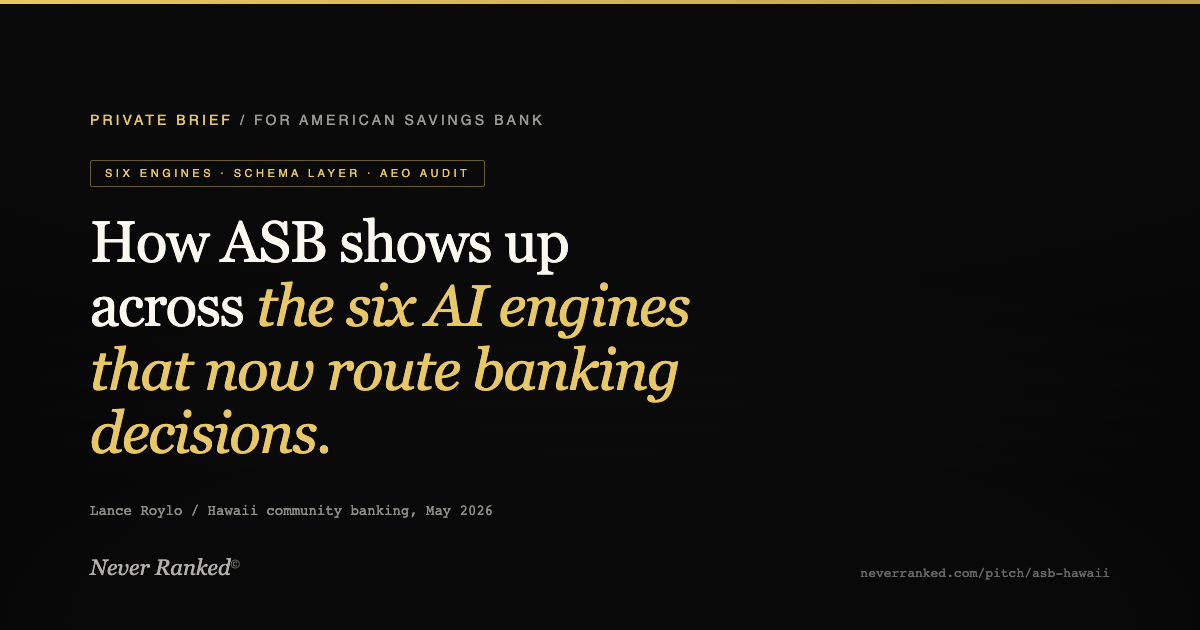
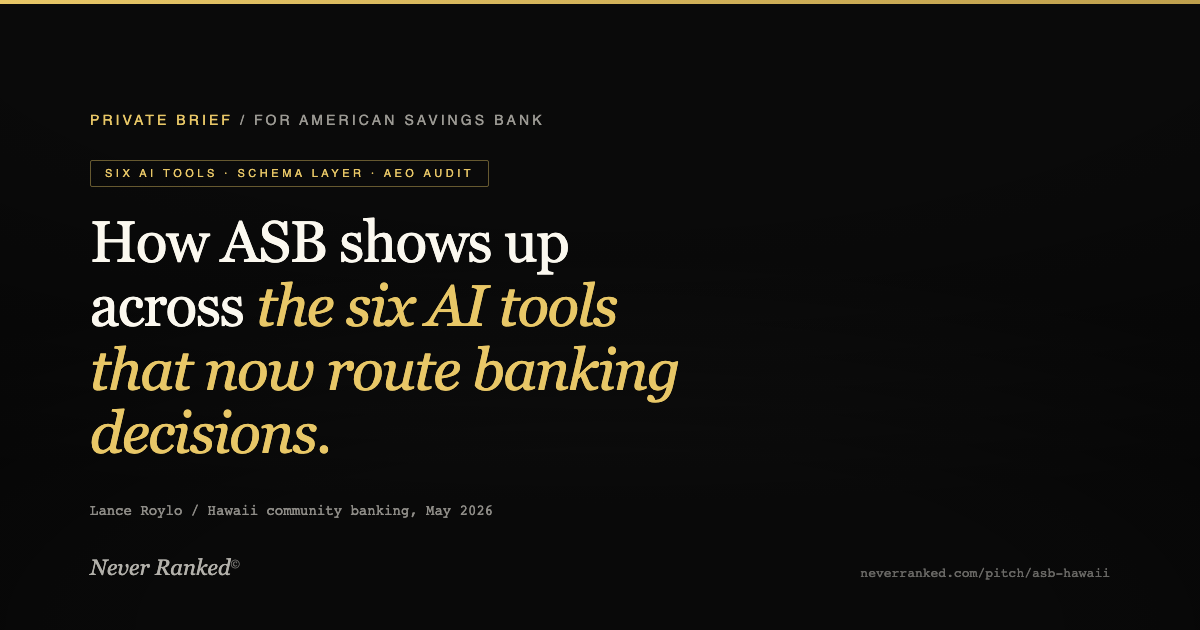
Copilot sweep repair, tiers 1-2: live deliverable promise and sent pitches
Tier 1, hawaii-wealth-aeo: the page promised "we report which firms Copilot
cites today" -- a deliverable we cannot produce for anyone who signs it. Also
asserted Copilot behaviour "in our data" twice, and listed five items under
"four citation-grade engines". Bing organic is now stated as a control with
the boundary named: whether ranking in it changes any AI answer is not
something this measurement tested.

Tier 2, Hamada (sent 2026-05-05): Path 3 sold Bing-ranking investment while
disclaiming twice that it may change nothing, and carried the last surviving
first-mover clothing ("ahead of any other Hawaii wealth manager"). Cut, and
"Three concrete paths" renumbered to two. Count-six-list-seven fixed, table
header "AI tool" -> "Surface", x/7 column relabelled to surfaces, and the
control row ruled off with a real style rather than an inert class.

Tier 2, ASB (sent 2026-04-29): "Citation-grade engines (5)" never became (4)
and still carried the "via Bing" dangler left by the Copilot deletion. Split
into four engines plus a named control channel. The seventh surface is now
introduced before "all seven" is used. "One-fifteenth the depth" is not
reconstructable (18x3 against 5x1 is ~1/11, and engines cancel), so it is now
"a fraction".

OG cards: both were stale since 2026-05-10 and still read "Seven Engines",
which is what link previews actually showed. Re-rendered. The ASB card
overflowed its canvas -- the content sweep appended a long Gemma clause and
[…]

Changed region(s): [[0.4008, 0.4524, 0.5858, 0.5429], [0.1233, 0.2714, 0.4008, 0.3016]]

diff --git a/pitch/hamada-financial-group/index.html b/pitch/hamada-financial-group/index.html
@@ -43,6 +43,9 @@
   li { margin-bottom: 8px; }
   strong { color: #e8e8ea; font-weight: 600; }
   table { width: 100%; border-collapse: collapse; margin: 22px 0; font-size: 14px; color: #b9b9bd; }
+  /* Bing organic is a classic-search control, not an AI tool. Ruled off so the
+     table cannot be read as seven AI tools. */
+  .control-row td { border-top: 2px solid #3a3a40; color: #8f8f96; font-style: italic; }
   th { color: #d4c596; text-align: left; font-weight: 400; letter-spacing: 0.04em; text-transform: uppercase; font-size: 11px; padding: 12px 14px 12px 0; border-bottom: 1px solid #4a4740; vertical-align: top; }
   td { padding: 10px 14px 10px 0; border-bottom: 1px solid #211e18; vertical-align: top; font-variant-numeric: tabular-nums; }
   td.num { text-align: right; padding-right: 24px; }
@@ -89,7 +92,7 @@
     </div>
 
     <h2>1. The headline finding</h2>
-    <p>We asked all 6 AI tools the kinds of questions a Hawaii wealth-management buyer would actually ask. Things like "best wealth manager in Hawaii," "fiduciary financial advisor Honolulu," "Hawaii wealth manager for business owner," and 15 similar. We ran each question across ChatGPT, Perplexity, Gemini, Bing search (control), Google AI Overviews, Claude, and Gemma.</p>
+    <p>We asked all 6 AI tools the kinds of questions a Hawaii wealth-management buyer would actually ask. Things like "best wealth manager in Hawaii," "fiduciary financial advisor Honolulu," "Hawaii wealth manager for business owner," and 15 similar. We ran each question across ChatGPT, Perplexity, Gemini, Google AI Overviews, Claude, and Gemma, plus Bing organic search as a control.</p>
     <p>Across that full 18-question set, Hamada Financial Group appears in <strong>8 mentions</strong>.</p>
     <p><strong>7 of those 8 mentions</strong> came from a single question: <em>"Hamada Financial vs Cadinha vs CKW."</em> That was the only question in the set that named Hamada by name.</p>
     <p><strong>On the other 17 questions,</strong> the ones where a buyer is searching for a Hawaii wealth manager without knowing your name yet, Hamada was not mentioned by any AI tool.</p>
@@ -98,13 +101,13 @@
     <h2>2. How each AI tool treated Hamada</h2>
     <p>The same 18 questions, broken out by which AI tool mentioned Hamada at all:</p>
     <table>
-      <thead><tr><th>AI tool</th><th class="num">Mentions</th><th>Notes</th></tr></thead>
+      <thead><tr><th>Surface</th><th class="num">Mentions</th><th>Notes</th></tr></thead>
       <tbody>
         <tr><td>Perplexity</td><td class="num">3</td><td>Only the named-comparison question</td></tr>
         <tr><td>Google AI Overviews</td><td class="num">3</td><td>Only the named-comparison question</td></tr>
         <tr><td>Gemini grounded</td><td class="num">2</td><td>Only the named-comparison question</td></tr>
         <tr><td>ChatGPT search</td><td class="num">0</td><td>Not mentioned on any question</td></tr>
-        <tr><td>Bing search (control)</td><td class="num">0</td><td>Not mentioned. This is true for every Hawaii wealth firm in our data (see Section 4).</td></tr>
+        <tr class="control-row"><td>Bing organic (control)</td><td class="num">0</td><td>Not returned in the top 5. This is true for every Hawaii wealth firm in our data (see Section 4).</td></tr>
         <tr><td>Claude</td><td class="num">0</td><td>Not in its training data</td></tr>
         <tr><td>Gemma</td><td class="num">0</td><td>Not in its training data</td></tr>
       </tbody>
@@ -118,7 +121,7 @@
           <th>Firm</th>
           <th class="num">Mentions</th>
           <th>Where in the answer</th>
-          <th class="num">AI tools</th>
+          <th class="num">Surfaces (of 7)</th>
         </tr>
       </thead>
       <tbody>
@@ -173,7 +176,7 @@
     <p>The pattern: when AI mentions Hamada at all, it is neutral, descriptive, and shows up early in the answer. Hamada&rsquo;s AI footprint is small but accurately described where it exists. The work to do is about volume, not fixing the way you are described.</p>
 
     <h2>6. What &ldquo;better&rdquo; looks like, observably</h2>
-    <p>NeverRanked does not promise that AI will start mentioning you more. We measure. But the data above tells you what the firms AI cites consistently are doing differently, and what would have to change for Hamada to share those conditions. Three concrete paths.</p>
+    <p>NeverRanked does not promise that AI will start mentioning you more. We measure. But the data above tells you what the firms AI cites consistently are doing differently, and what would have to change for Hamada to share those conditions. Two concrete paths.</p>
 
     <h3>Path 1. Show up on the open-ended questions</h3>
     <p><strong>Today:</strong> Hamada is mentioned on 0 of the 17 open-ended questions. <strong>What &ldquo;better&rdquo; looks like:</strong> Hamada is mentioned on 5 to 10 of those 17 within the next 60 to 90 days of consistent editorial work.</p>
@@ -195,17 +198,6 @@
       <li>Sustained named-founder content (op-eds, contributed articles, conference talks transcribed to web). The AI training-data layer compounds slowly. This is a 6 to 12 month signal, not a 30-day one.</li>
     </ul>
     <p><strong>What the engagement measures:</strong> Claude and Gemma mention count for Hamada quarter-over-quarter. This is the slowest signal but the most defensible once it forms.</p>
-
-    <h3>Path 3. Show up in Bing search (control) (the gap everyone has)</h3>
-    <p><strong>Today:</strong> Bing search (control) mentions zero Hawaii wealth-management firms in the data. Every firm in this category is invisible there. What the measurement shows: whichever firm shows up first in Bing search results for these questions would be the one classic search surfaces. Whether that changes what any AI answer engine cites is not something this measurement tested.</p>
-    <p><strong>What &ldquo;better&rdquo; looks like:</strong> Hamada appears in Bing search (control) for 3 to 5 of the 17 open-ended questions within 90 days, ahead of any other Hawaii wealth manager.</p>
-    <p><strong>What that requires:</strong></p>
-    <ul>
-      <li>Bing organic search visibility for the named questions. The current Bing top 5 for these questions is dominated by national publications (SmartAsset, Investopedia, Forbes), not Hawaii-specific firm content.</li>
-      <li>Hamada-authored or Hamada-cited content on those national publications, indexed by Bing, ranked in the top 5 for at least the most common questions.</li>
-      <li>What the measurement shows: this gap is open for every Hawaii wealth manager. Whether closing it changes what any AI answer engine cites is not something this measurement tested.</li>
-    </ul>
-    <p><strong>What the engagement measures:</strong> Hamada appearances on Bing search (control) per measurement window, broken out by question. We also catch the moment Bing starts ranking a Hamada-relevant URL in the top 5.</p>
 
     <div class="callout">
       <h3>The honest framing</h3>

diff --git a/hawaii-wealth-aeo/index.html b/hawaii-wealth-aeo/index.html
@@ -147,9 +147,9 @@
 </script>
     <p>For wealth, the read is closer to half-and-half. About half the AI-citation surface for your category is on your own site (clean it up, the leverage is real). The other half is off-site (lead-gen platforms, named-founder bylines, published rankings, Wikipedia presence for principals). The full <a href="/teardowns/wealth-mgmt-hawaii/">Hawaii wealth-management teardown</a> covers the 42-firm cohort, the lead-gen middleman pattern, and Claude&rsquo;s structurally thin training-data presence for the category.</p>
 
-    <h2>The Bing search (control) gap, specific to wealth</h2>
-    <p>Bing search (control) cites zero Hawaii wealth-firm websites across 787 mentions in our data. The gap is cohort-wide. In our data, Copilot answers track Bing organic results, so the firms ranking in Bing organic for the buyer questions are the ones Copilot currently cites, and absent firms are absent.</p>
-    <p>The observed condition is Bing organic visibility for the named queries. The current Bing top 5 for these questions is dominated by national publications (SmartAsset, Investopedia, Forbes) and lead-gen platforms, not Hawaii-specific firm content. We report which firms Copilot cites today and where Bing organic visibility sits for the named queries, run over run.</p>
+    <h2>The Bing organic gap, specific to wealth</h2>
+    <p>Bing organic returns zero Hawaii wealth-firm websites across 787 results in our data. The gap is cohort-wide. Bing organic is measured as a classic-search control, not as an AI answer engine; whether ranking in it changes any AI answer is not something this measurement tested.</p>
+    <p>The observed condition is Bing organic visibility for the named queries. The current Bing top 5 for these questions is dominated by national publications (SmartAsset, Investopedia, Forbes) and lead-gen platforms, not Hawaii-specific firm content. We report where Bing organic visibility sits for the named queries, run over run.</p>
 
     <h2>The Claude training-data finding (worth flagging)</h2>
     <p>Claude answers from its training data rather than searching the live web. Across 646 Claude mentions in our wealth measurement, only 14% went to firm-owned websites. The other 86% pulled from third-party content even though Claude could have named the firms. For comparison: Claude cites Hawaii law firms 51% firm-owned and Honolulu dental practices 34%. Hawaii wealth firms have a structurally thinner Claude training-data presence than the other relationship-business cohort we measured.</p>
@@ -159,11 +159,11 @@
     <p>The standard engagement shape, scoped to a wealth firm:</p>
     <ul>
       <li><strong>Scoping call (30 min).</strong> Lock the 18 buyer questions a real Hawaii wealth-management buyer would ask AI (an example set is published at <a href="/methodology/#query-set">/methodology/#query-set</a>). Lock the cohort. Confirm the questions reflect your specific buyer (high-net-worth, business owner, physician, retiree, inherited wealth, etc.).</li>
-      <li><strong>The baseline month.</strong> Daily measurement across the six AI tools: four citation-grade engines that search the live web (Perplexity, ChatGPT search, Gemini grounded, Bing search (control), Google AI Overviews) and two model-knowledge engines that answer from training data (Claude, Gemma).</li>
+      <li><strong>The baseline month.</strong> Daily measurement across the six AI tools: four citation-grade engines that search the live web (Perplexity, ChatGPT search, Gemini grounded, Google AI Overviews) and two model-knowledge engines that answer from training data (Claude, Gemma), alongside Bing organic as a classic-search control.</li>
       <li><strong>Research memo + clear list of fixes.</strong> Named competitors, observed gaps per question, prioritized punch list scoped to two parallel workstreams (on-site cleanup + off-site authority work).</li>
       <li><strong>Monthly delta memo after the baseline month.</strong> What moved, what did not, drift alerts when a competitor moves on your category.</li>
     </ul>
-    <p>For wealth firms specifically, the punch list typically covers: (1) SmartAsset and getwarmer.com profile presence, (2) the Bing organic visibility that Copilot citations track in our data, (3) Claude training-data signals, (4) the named-comparison query positioning when your top 2-3 competitors are mentioned by name. We name the specific gaps in the paid engagement. The free check does not.</p>
+    <p>For wealth firms specifically, the punch list typically covers: (1) SmartAsset and getwarmer.com profile presence, (2) Bing organic visibility, tracked as a classic-search control, (3) Claude training-data signals, (4) the named-comparison query positioning when your top 2-3 competitors are mentioned by name. We name the specific gaps in the paid engagement. The free check does not.</p>
 
     <div class="cta-block">
       <h3>See how 6 AI tools read your firm&rsquo;s site right now</h3>

diff --git a/first-look/prince-waikiki/index.html b/first-look/prince-waikiki/index.html
@@ -7,7 +7,7 @@
   from an INFORMAL probe: 5 traveler hotel-discovery questions across 4 AI
   tools (Perplexity, ChatGPT search, Gemini grounded, Claude), single run,
   plus a deterministic AEO site scan of princewaikiki.com. NOT the formal
-  18Q / 7-tool / 3-run protocol; the page says so. 1:1 deliverable, not public.
+  18Q / 6-tool / 3-run protocol; the page says so. 1:1 deliverable, not public.
   Competitors named (allowed in a 1:1; observational only).
 -->
 <html lang="en">
@@ -84,7 +84,7 @@
     </div>
 
     <h2>1. Where this came from</h2>
-    <p>Carl mentioned what we are building, and your team's interest means a great deal. The clearest picture of what this looks like is the Hawaii Theatre: we measured what the AI tools said about them, and what we found was not on their website at all. A Charity Navigator profile stale since 2023, a Better Business Bureau listing last touched in 1999, no presence on Bing Business Profile, which feeds Bing&rsquo;s organic results. Their team shipped against the list we handed them. That is the kind of gap this work surfaces and a standard SEO scan never sees.</p>
+    <p>Carl mentioned what we are building, and your team's interest means a great deal. The clearest picture of what this looks like is the Hawaii Theatre: we measured what the AI tools said about them, and what we found was not on their website at all. A Charity Navigator profile stale since 2023, a Better Business Bureau listing last touched in 1999, no Bing Business Profile at all, one of the entity signals search and AI systems read when deciding whether a business exists. Their team shipped against the list we handed them. That is the kind of gap this work surfaces and a standard SEO scan never sees.</p>
     <p>For Prince Waikiki, before we begin, I wanted to show you the actual starting line. So I asked four AI tools five questions a real traveler asks when choosing a hotel:</p>
     <ul>
       <li>"What is the best hotel in Waikiki?"</li>
@@ -142,7 +142,7 @@
 
     <h2>Next steps</h2>
     <p>We are getting the last business and insurance pieces in place now, and the moment that is done I will let you know so we can get Prince Waikiki started. In the meantime this first look is yours, with no commitment.</p>
-    <p>If you would like the full seven-tool version of any of this, or you would like me to walk the team through it, just reply or email <a href="mailto:Lance@hi.neverranked.com?subject=Prince%20Waikiki%20-%20diagnostic">Lance@hi.neverranked.com</a>.</p>
+    <p>If you would like the full six-tool version of any of this, or you would like me to walk the team through it, just reply or email <a href="mailto:Lance@hi.neverranked.com?subject=Prince%20Waikiki%20-%20diagnostic">Lance@hi.neverranked.com</a>.</p>
 
     <p style="margin-top:32px">
       <a href="/">NeverRanked</a> &middot;

diff --git a/pitch/asb-hawaii/index.html b/pitch/asb-hawaii/index.html
@@ -266,10 +266,11 @@ p a:hover,ul a:hover{opacity:.8}
       <span class="rule"></span>
     </div>
     <p>
-      We measure across two layers. Four engines that search the live web and cite their sources. Two engines that answer purely from model knowledge, meaning what AI says about you when it cannot look anything up. We watch all seven in repeated runs, in every category we run.
+      We measure across two layers, plus a control. Four engines that search the live web and cite their sources. Two engines that answer purely from model knowledge, meaning what AI says about you when it cannot look anything up. And one classic-search control, Bing organic, which is not an AI answer engine at all. We watch all seven surfaces in repeated runs, in every category we run.
     </p>
     <ul>
-      <li><b>Citation-grade engines (5).</b> Perplexity. ChatGPT with web search. Gemini with grounded search. Bing search (control) via Bing. Google AI Overviews via DataForSEO. These pull from the live web and surface their sources.</li>
+      <li><b>Citation-grade engines (4).</b> Perplexity. ChatGPT with web search. Gemini with grounded search. Google AI Overviews via DataForSEO. These pull from the live web and surface their sources.</li>
+      <li><b>Control channel (1).</b> Bing organic search, top-5 results. Classic keyword search, not an AI answer.</li>
       <li><b>Model-knowledge engines (2).</b> Claude. Gemma (Google's open-weight model, so the model itself is independently inspectable). These answer from training data without searching, which is what a customer using Claude.ai or a Claude-powered support tool sees by default.</li>
     </ul>
     <p>
@@ -473,7 +474,7 @@ p a:hover,ul a:hover{opacity:.8}
 
     <p><b>What do we own at the end?</b><br>Your memos, your punch lists, the raw data we captured against your queries. Everything is exportable. If ASB ever cancels, the data leaves with you. The category-level aggregate patterns we learn across our broader dataset stay with us, never named, never reverse-engineerable to a specific customer.</p>
 
-    <p><b>Can we see something concrete before committing?</b><br>Yes. We can run a single-day pilot scan against five sample queries before any commercial conversation, no charge. The output looks like the deliverable but at one-fifteenth the depth. It is enough to know whether the methodology surfaces something useful for ASB.</p>
+    <p><b>Can we see something concrete before committing?</b><br>Yes. We can run a single-day pilot scan against five sample queries before any commercial conversation, no charge. The output looks like the deliverable but at a fraction of the depth. It is enough to know whether the methodology surfaces something useful for ASB.</p>
   </div>
 </section>
 

diff --git a/pitch/hulas/index.html b/pitch/hulas/index.html
@@ -6,7 +6,7 @@
   an INFORMAL pre-engagement probe: 4 tourist-discovery questions across 4
   AI tools (Perplexity, ChatGPT search, Gemini grounded, Claude), single
   run, plus a deterministic AEO site scan of hulas.com. This is NOT the
-  formal 18-question / 7-tool / 3-run protocol, and the page says so. It is
+  formal 18-question / 6-tool / 3-run protocol, and the page says so. It is
   a 1:1 deliverable, not a public artifact. Competitors named because this
   is a private 1:1 (anonymize-noncustomers rule applies to public surfaces).
 -->
@@ -86,7 +86,7 @@
     </div>
 
     <h2>1. Where this came from</h2>
-    <p>You came up through the Hawaii Theatre board. That is also where we did our most public piece of work: we measured what AI tools said about the Theatre, and the answers were being built from sources that were not the Theatre's website at all. A Charity Navigator profile stale since 2023, a Better Business Bureau listing last touched in 1999, no presence on Bing Business Profile, which feeds Bing&rsquo;s organic results. Their team shipped against the list we handed them. Greg can speak to it directly.</p>
+    <p>You came up through the Hawaii Theatre board. That is also where we did our most public piece of work: we measured what AI tools said about the Theatre, and the answers were being built from sources that were not the Theatre's website at all. A Charity Navigator profile stale since 2023, a Better Business Bureau listing last touched in 1999, no Bing Business Profile at all, one of the entity signals search and AI systems read when deciding whether a business exists. Their team shipped against the list we handed them. Greg can speak to it directly.</p>
     <p>Before I ask you for anything, I wanted to actually look. So I ran Hula's through the same kind of check we ran for the Theatre, with four AI tools and four questions a real visitor would ask:</p>
     <ul>
       <li>"What is the best gay bar in Waikiki?"</li>

diff --git a/pitch/asb-hawaii/og.html b/pitch/asb-hawaii/og.html
@@ -100,8 +100,8 @@ h1 em{
 <div class="gold-line"></div>
 <div class="content">
   <div class="kicker"><span>Private Brief</span> / For American Savings Bank</div>
-  <span class="recipient-tag">Seven Engines &middot; Schema Layer &middot; AEO Audit</span>
-  <h1>How ASB shows up across <em>the six AI tools that now route banking decisions, anchored by Gemma, the open-weight model your compliance team can independently audit.</em></h1>
+  <span class="recipient-tag">Six AI Tools &middot; Schema Layer &middot; AEO Audit</span>
+  <h1>How ASB shows up across <em>the six AI tools that now route banking decisions.</em></h1>
   <div class="meta">Lance Roylo / Hawaii community banking, May 2026</div>
 </div>
 <div class="bottom">

diff --git a/pitch/hamada-financial-group/og.html b/pitch/hamada-financial-group/og.html
@@ -24,8 +24,8 @@ h1 em{color:#e8c767;font-style:italic}
 <div class="gold-line"></div>
 <div class="content">
   <div class="kicker"><span>Private Brief</span> / For Hamada Financial Group</div>
-  <span class="recipient-tag">Wealth Advisor &middot; Seven Engines &middot; AEO Audit</span>
-  <h1>Five things AI engines can't see <em>about Hamada Financial Group.</em></h1>
+  <span class="recipient-tag">Wealth Advisor &middot; Six AI Tools &middot; AEO Audit</span>
+  <h1>What AI engines can't see <em>about Hamada Financial Group.</em></h1>
   <div class="meta">Lance Roylo / Hawaii wealth management, May 2026</div>
 </div>
 <div class="bottom">
